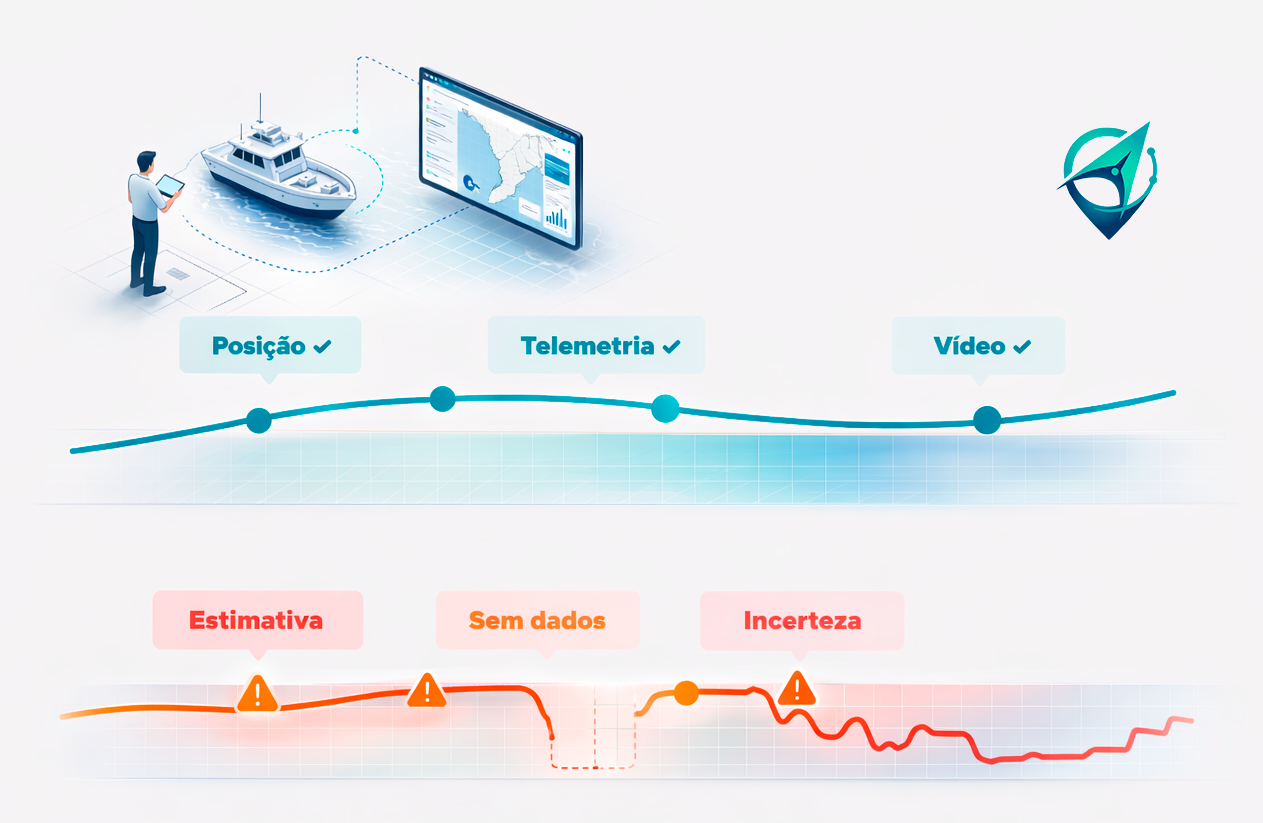
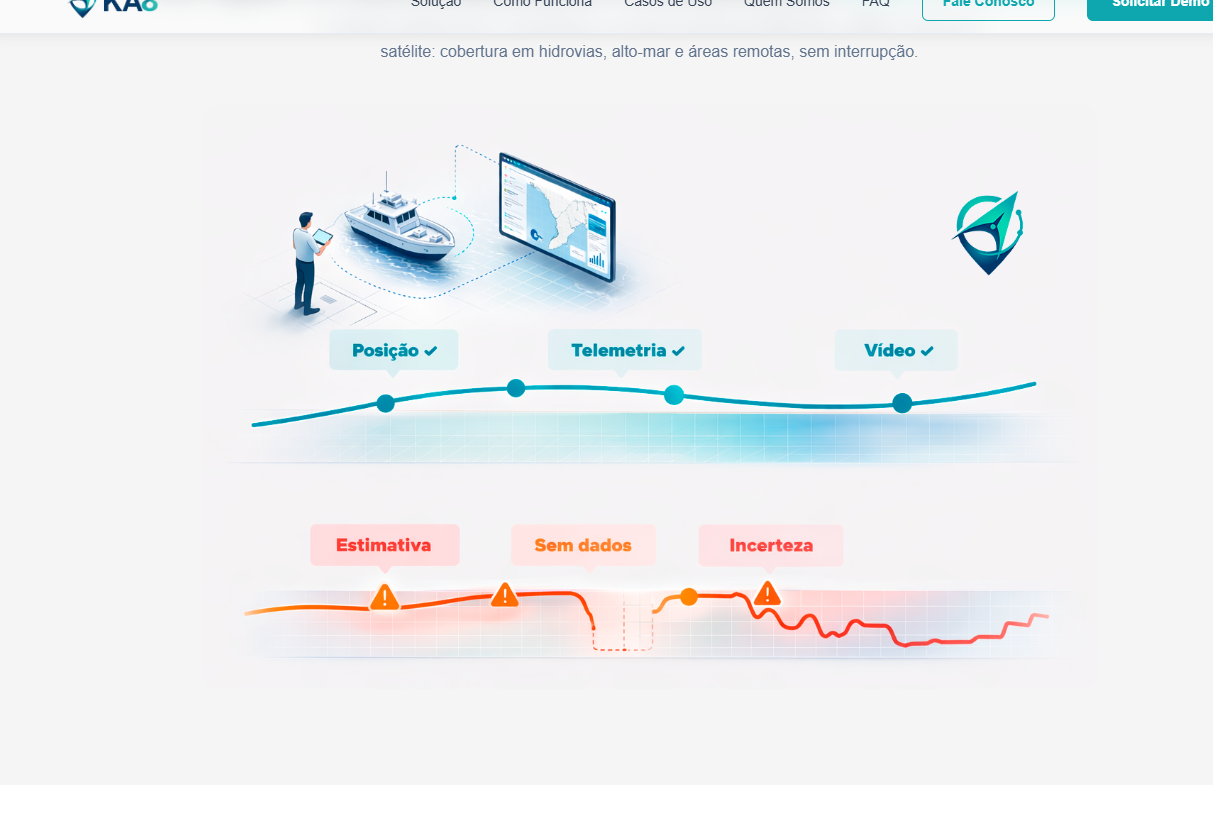
Changes

diff --git a/src/components/Comparison.tsx b/src/components/Comparison.tsx
@@ -7,23 +7,27 @@ const Comparison = () => {
   return (
     <section className="section-padding section-light" ref={ref}>
       <div className="container-ka8">
-        <div className="reveal text-center mb-10">
-          <h2 className="font-display text-3xl md:text-4xl font-extrabold text-ka8-text-dark mb-4 leading-tight">
-            Por que o rastreamento tradicional{" "}
-            <span className="gradient-text">não é suficiente</span>
-          </h2>
-          <p className="text-ka8-text-muted text-base leading-relaxed max-w-2xl mx-auto">
-            Sistemas baseados em GSM perdem sinal onde a operação realmente acontece. A KA8 usa satélite: cobertura em hidrovias, alto-mar e áreas remotas, sem interrupção.
-          </p>
-        </div>
+        <div className="reveal grid md:grid-cols-2 gap-10 items-center">
+          {/* Text left */}
+          <div>
+            <h2 className="font-display text-3xl md:text-4xl font-extrabold text-ka8-text-dark mb-4 leading-tight">
+              Por que o rastreamento tradicional{" "}
+              <span className="gradient-text">não é suficiente</span>
+            </h2>
+            <p className="text-ka8-text-muted text-base leading-relaxed">
+              Sistemas baseados em GSM perdem sinal onde a operação realmente acontece. A KA8 usa satélite: cobertura em hidrovias, alto-mar e áreas remotas, sem interrupção.
+            </p>
+          </div>
 
-        <div className="reveal max-w-4xl mx-auto">
-          <img
-            src={comparisonImg}
-            alt="Comparativo: com KA8 dados contínuos de posição, telemetria e vídeo vs. sem KA8 apenas estimativas e incerteza"
-            className="w-full h-auto rounded-2xl"
-            loading="lazy"
-          />
+          {/* Image right */}
+          <div>
+            <img
+              src={comparisonImg}
+              alt="Comparativo: com KA8 dados contínuos de posição, telemetria e vídeo vs. sem KA8 apenas estimativas e incerteza"
+              className="w-full h-auto rounded-2xl"
+              loading="lazy"
+            />
+          </div>
         </div>
       </div>
     </section>
